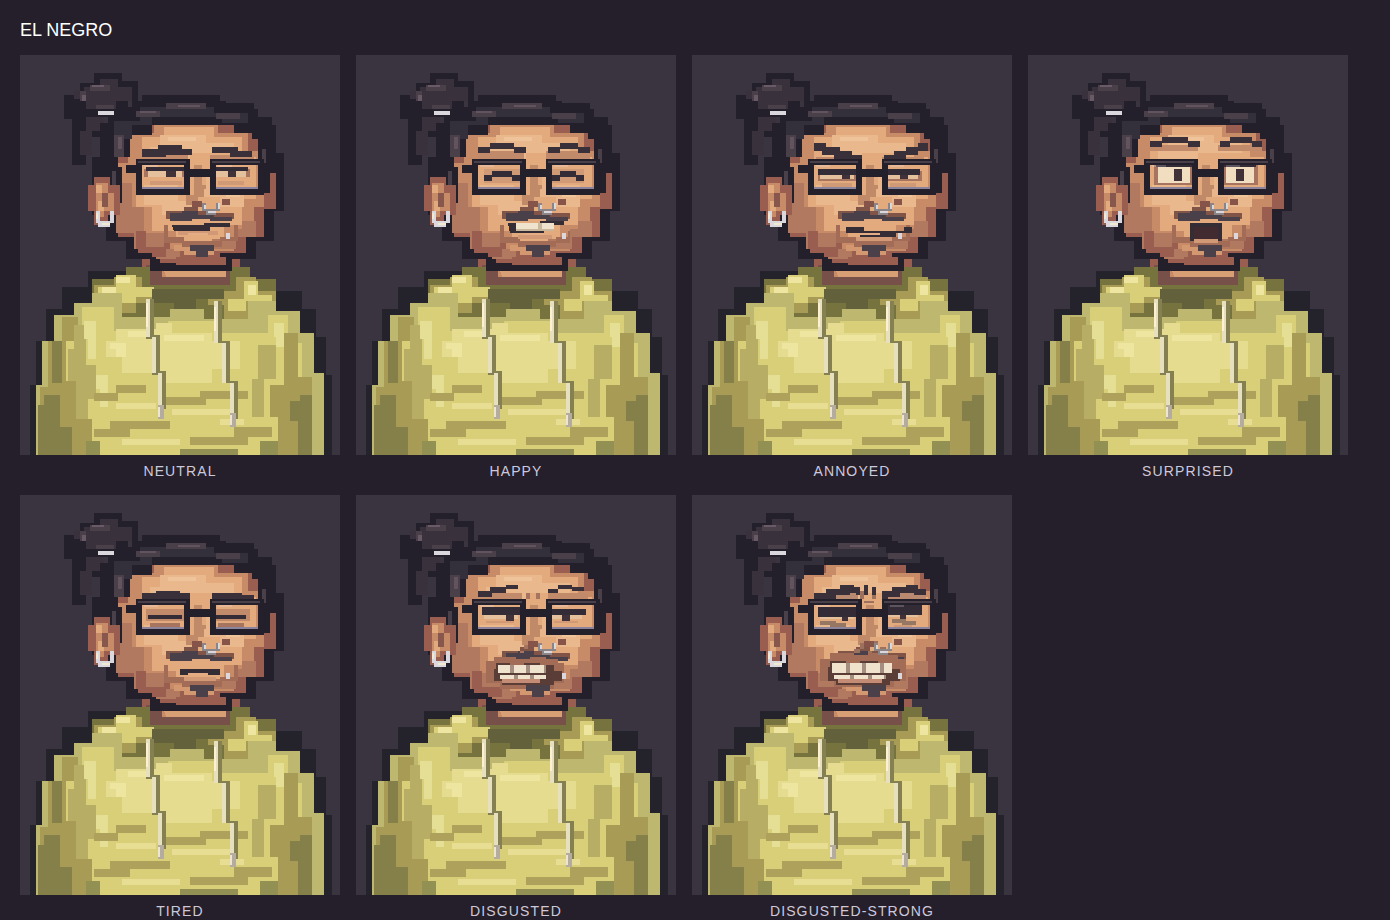
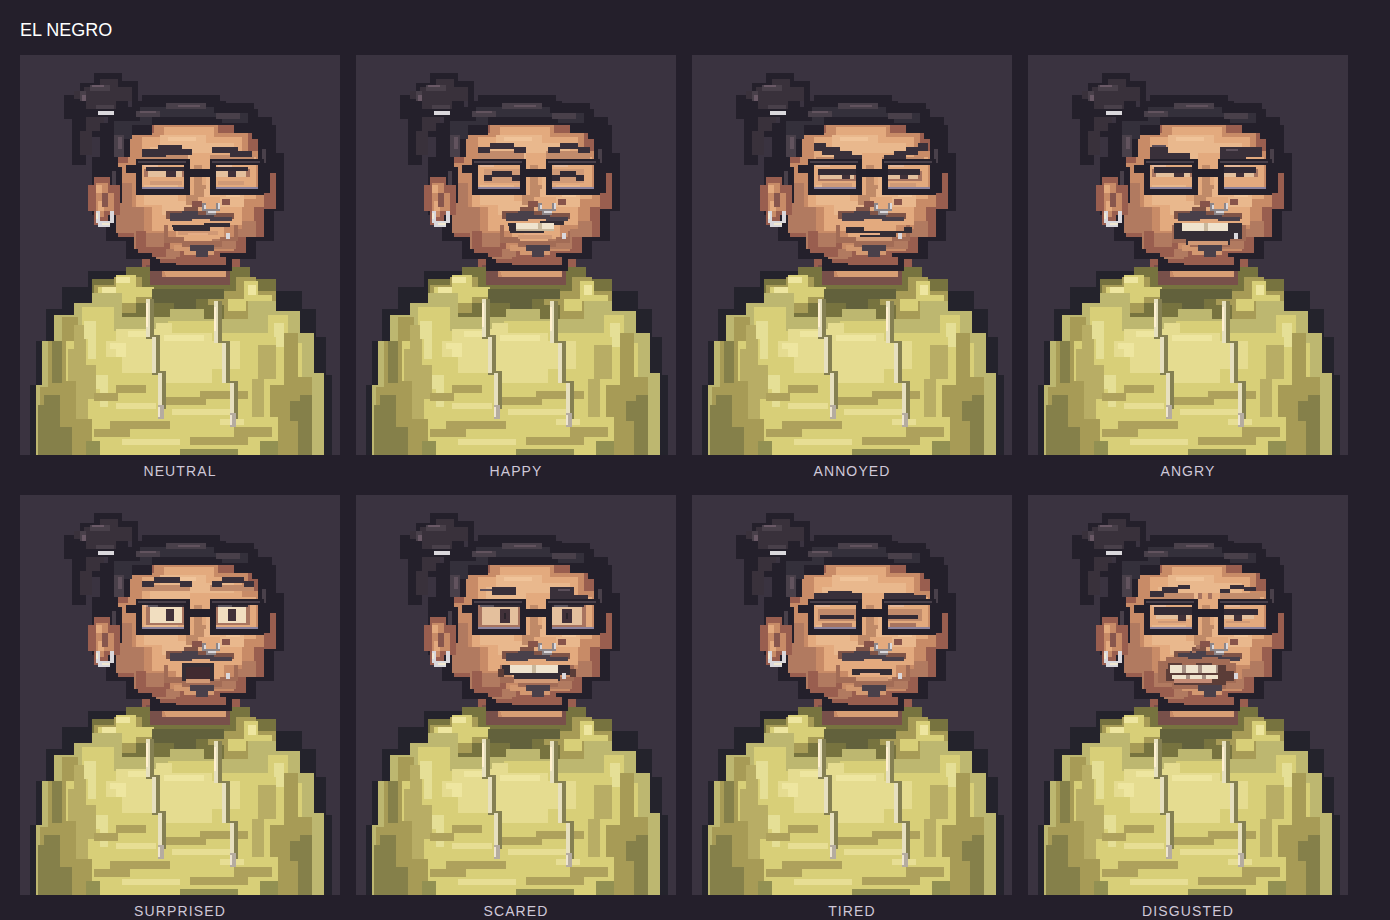
feat(narrative): give El Negro the shared eight-expression set

diff --git a/art/characters/negro/README.md b/art/characters/negro/README.md
@@ -40,9 +40,9 @@ The existing narrative catalog maps `maxi-negro` to the playable `negro` sprite 
 { "speaker": "maxi-negro", "expression": "annoyed", "text": "Example dialogue." }
 ```
 
-Available expression IDs: `neutral`, `happy`, `annoyed`, `surprised`, `tired`, `disgusted`, `disgusted-strong`. Omitting `expression` uses neutral. This does not change gameplay sprites, abilities or story text.
+Available expression IDs: `neutral`, `happy`, `annoyed`, `angry`, `surprised`, `scared`, `tired`, `disgusted`. Omitting `expression` uses neutral. This does not change gameplay sprites, abilities or story text.
 
-The disgust variants follow the user-supplied Soul Eater frame: heavy lowered eyelids, pinched brows, small nose creases and a wide grimace of clenched teeth, with the whole mouth pulled slightly toward the character's right (screen left). The stronger version opens the mouth wider and exaggerates the brow pinch. They support Act 4's initial collective reaction and its stronger repetition. These are El Negro's portrait assets only; the four-character synchronized scene and the Administrator's later reaction are not implemented by this asset recipe.
+The disgust expression follows the user-supplied Soul Eater frame: heavy lowered eyelids, pinched brows, small nose creases and a wide grimace of clenched teeth, with the whole mouth pulled slightly toward the character's right (screen left). It supports Act 4's collective reaction. These are El Negro's portrait assets only; the four-character synchronized scene and the Administrator's later reaction are not implemented by this asset recipe.
 
 ```sh
 node --test tests/portrait-build.test.mjs

diff --git a/docs/narrative-authoring.md b/docs/narrative-authoring.md
@@ -32,9 +32,11 @@ The samples have **no gameplay bindings**, so normal prototype play is unchanged
 
 Names and portraits come from the character catalog. Text is rendered as text, not HTML. Advance is manual. No per-conversation JavaScript is needed.
 
-El Negro (`maxi-negro`, the playable `negro` sprite) supports `neutral`, `happy`, `annoyed`, `surprised`, `tired`, `disgusted` and `disgusted-strong`. The last two support the Act 4 Papafrita gag.
+Every character now exposes the same eight expressions: `neutral`, `happy`, `annoyed`, `angry`, `surprised`, `scared`, `tired`, `disgusted`.
 
-Solago (`solago`) supports `neutral`, `happy`, `annoyed`, `angry`, `surprised`, `scared`, `tired` and `disgusted`. Every expression keeps the same buck-toothed mouth so the character stays recognisable; `disgusted` swaps it for the Excalibur-style clenched grimace used in Act 4.
+El Negro (`maxi-negro`, the playable `negro` sprite) uses `disgusted` for the Act 4 Papafrita gag.
+
+Solago (`solago`) keeps the same buck-toothed mouth in every expression so the character stays recognisable; `disgusted` swaps it for the Excalibur-style clenched grimace used in Act 4.
 
 Warrior (`warrior`) supports the same eight expressions: `happy` covers the "Yo soy argentino, boludo" lines, `surprised` the Viaje Astral reaction and `disgusted` reuses the Act 4 grimace.
 
